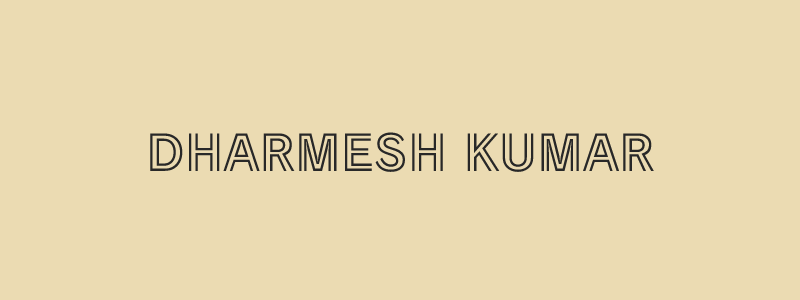
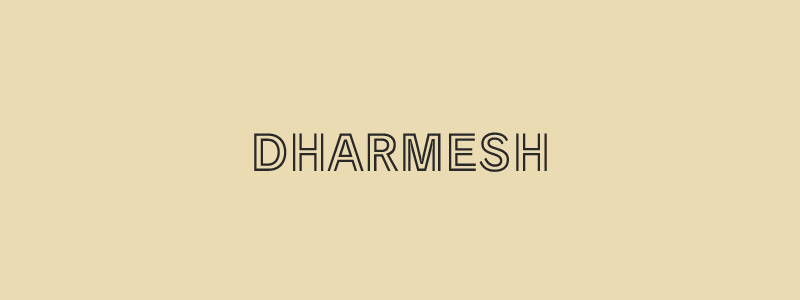
refactor: change opengraph image content

Changed region(s): [[0.1875, 0.42, 0.8125, 0.57]]

diff --git a/app/og/route.tsx b/app/og/route.tsx
@@ -20,7 +20,7 @@ export async function GET() {
           tw="w-full h-full bg-[#ebdbb2] text-[#282828] p-8 flex items-center justify-center relative"
         >
           <div tw="flex flex-col">
-            <h1 tw="text-5xl font-bold">DHARMESH KUMAR</h1>
+            <h1 tw="text-5xl font-bold">DHARMESH</h1>
           </div>
         </div>
       ),
